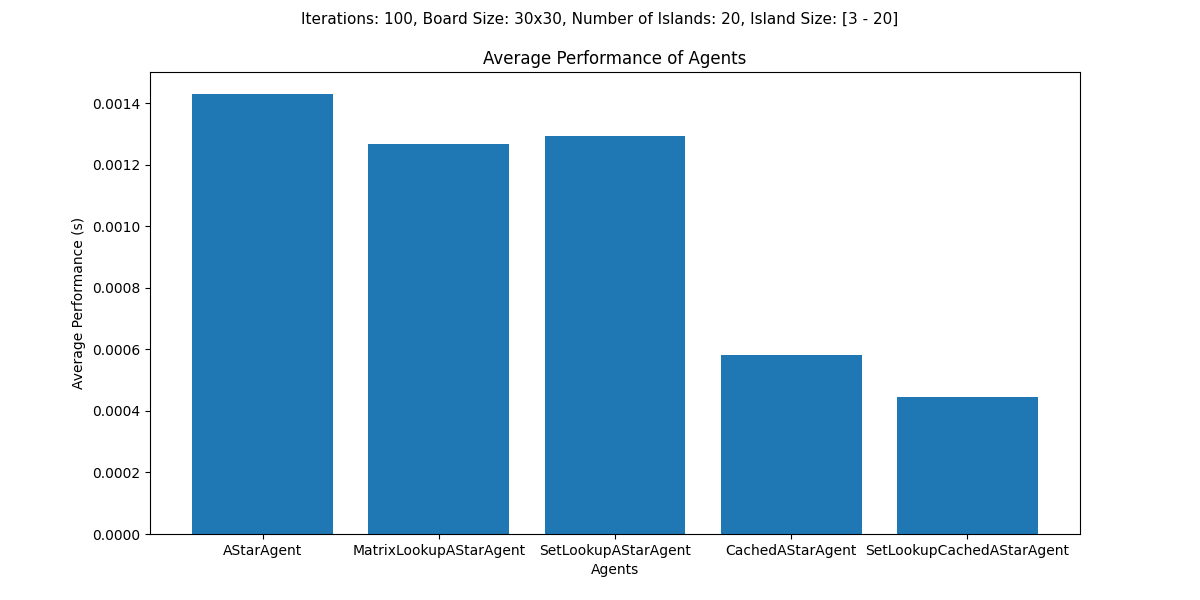
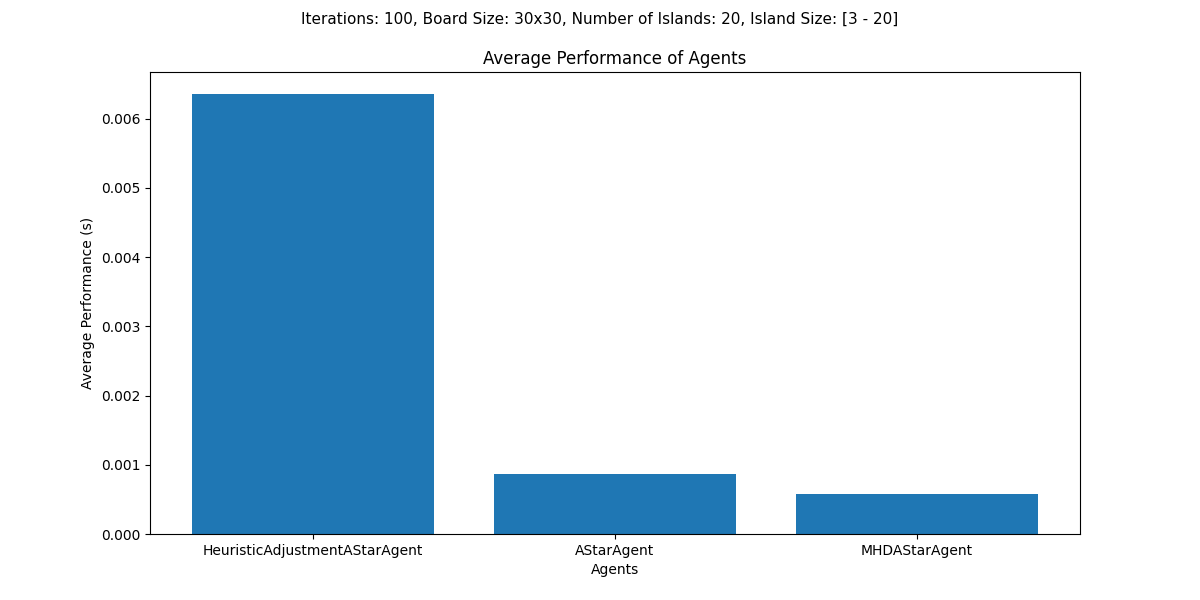
Stash

diff --git a/optimized_agents.py b/optimized_agents.py
@@ -371,32 +371,81 @@ class MatrixLookupAStarAgent(AStarAgent):
         return out
 
 
+''' 
+==================================================================================================================
+Heuristic adjustments take place down here
 
-def newHeuristic(self, i=None, j=None):
-        '''
-        Give the straightline distance between current position and goal.
+The original square root heuristic we have is slow, so we need to find optimizations (mostly to do with no square roots)
+'''
 
-        In this case, we add 1 move for every block that is found
-        on the diagonal.
-        '''
-        if i == None:
-            i = self.i
-        if j == None:
-            j = self.j
-        self.heuristic_calls += 1
-        # computing a square root is slow, make a heuristic that doesn't use it?
-        step_i = (self.goal_i - i) / 10
-        step_j = (self.goal_j - j) / 10
+def obstacleAdjustmentHeuristic(self, i=None, j=None):
+    '''
+    Give the straightline distance between current position and goal.
 
-        value = ((self.goal_i - i) ** 2 + (self.goal_j - j) ** 2) ** (1/2)
-        for step in range(10):
-            (adjust_i, adjust_j) = (int(i + step_i * step), int(j + step_j * step))
-            if (self.board[adjust_i][adjust_j] == 2):
-                value += 1
+    In this case, we add 1 move for every block that is found
+    on the diagonal.
+    '''
+    if i == None:
+        i = self.i
+    if j == None:
+        j = self.j
+    self.heuristic_calls += 1
+    # computing a square root is slow, make a heuristic that doesn't use it?
+    step_i = (self.goal_i - i) / 10
+    step_j = (self.goal_j - j) / 10
+    checked = set()
+
+    value = ((self.goal_i - i) ** 2 + (self.goal_j - j) ** 2) ** (1/2)
+    for step in range(10):
+        (adjust_i, adjust_j) = (int(i + step_i * step), int(j + step_j * step))
+
+        #don't check the same block twice (no longer admissable)
+        if (adjust_i, adjust_j) in checked:
+            continue
+        else:
+            checked.add((adjust_i, adjust_j))
+
+        if (self.board[adjust_i][adjust_j] == 2):
+            value += 1
+    return value
+
+
+def mhdHeuristic(self, i=None, j=None):
+    '''
+    Give the Manhattan distance between current position and goal.
+    '''
+    if i == None:
+        i = self.i
+    if j == None:
+        j = self.j
+    self.heuristic_calls += 1
+    value = abs(self.goal_i - i) + abs(self.goal_j - j)
+    return value
+
+class MHDAStarAgent(AStarAgent):
+    def name(self):
+        return 'MHDAStarAgent'
+    
+    def heuristic(self, i=None, j=None):
+        value = mhdHeuristic(self, i, j)
+        return value
+    
+class MHDBidirectionalLocalSearchAgent(BidirectionalLocalSearchAgent):
+    def name(self):
+        return 'MHDBidirectionalLocalSearchAgent'
+    
+    def goal_heuristic(self, i=None, j=None):
+        value = mhdHeuristic(self, self.goal_i, self.goal_j)
         return value
 
-class HeuristicAdjustmentAStarAgent(AStarAgent):
     def heuristic(self, i=None, j=None):
-        value = newHeuristic(self, i, j)
-        print(value)
+        value = mhdHeuristic(self, i, j)
+        return value
+
+class ObstacleAdjustmentAStarAgent(AStarAgent):
+    def name(self):
+        return 'ObstacleAdjustmentAStarAgent'
+    
+    def heuristic(self, i=None, j=None):
+        value = obstacleAdjustmentHeuristic(self, i, j)
         return value

diff --git a/testing.py b/testing.py
@@ -170,9 +170,10 @@ if __name__ == '__main__':
     b3 = Board(rows=1000, cols=1000, num_islands=2000, min_island_size=10, max_island_size=30)
     # agents = [AStarAgent, BidirectionalSearchAgent, GuidedLocalSearchAgent, SteepestAscentAgent]
     # agents = [GuidedLocalSearchAgent, BidirectionalLocalSearchAgent]
-    # agents = [AStarAgent, HeuristicAdjustmentAStarAgent]
+    # agents = [AStarAgent, ObstacleAdjustmentAStarAgent]
     # agents = [MemoryLookupLocalSearchAgent, GuidedLocalSearchAgent]
-    agents = [AStarAgent, MatrixLookupAStarAgent, SetLookupAStarAgent, CachedAStarAgent, SetLookupCachedAStarAgent]
+    # agents = [AStarAgent, MatrixLookupAStarAgent, SetLookupAStarAgent, CachedAStarAgent, SetLookupCachedAStarAgent]
+    agents = [ObstacleAdjustmentAStarAgent, AStarAgent, MHDAStarAgent]
 
     iterations = 100
     board = b

diff --git a/main.py b/main.py
@@ -18,7 +18,7 @@ from optimized_agents import *
 
 
 def main(agent=Agent):
-    b = Board()
+    b = Board(num_agents=10)
     # b = Board(rows=80, cols=80, num_islands=100, min_island_size=10, max_island_size=30)
     b.generate_board()
     b.place_agents(agent)
@@ -28,7 +28,9 @@ def main(agent=Agent):
 # main()
 # main(GuidedLocalSearchAgent)
 # main(DelayedImprovementAgent)
-main(SteepestAscentAgent)
+# main(ObstacleAdjustmentAStarAgent)
+# main(MHDBidirectionalLocalSearchAgent)
+main(GuidedLocalSearchAgent)
 
 # b = Board()
 # print(b.test(100, AStarAgent, BidirectionalSearchAgent, SimulatedAnnealingAgent))
